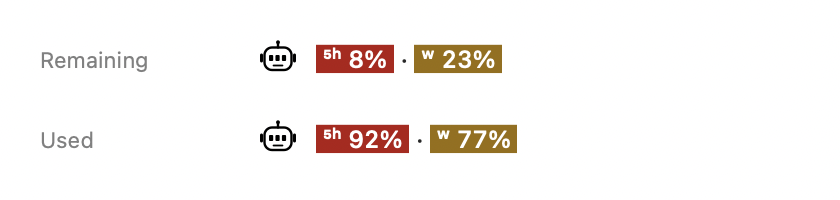
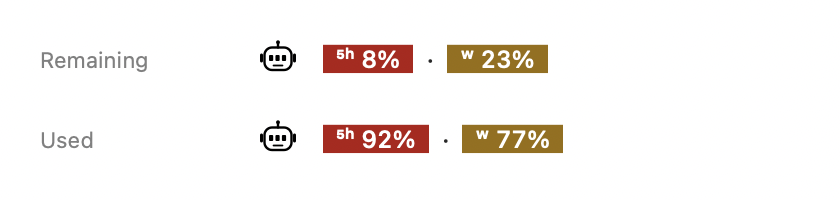
Space tray badges and include ten percent in the red warning range

Changed region(s): [[0.3714, 0.6, 0.681, 0.78], [0.3714, 0.21, 0.65, 0.39]]

diff --git a/Sources/CliProxyQuota/App.swift b/Sources/CliProxyQuota/App.swift
@@ -184,9 +184,9 @@ import QuotaCore
         let yellowRange = (coloredTitle.string as NSString).range(of: "80%")
         let redRange = (coloredTitle.string as NSString).range(of: "95%")
         try check(coloredTitle.attribute(.backgroundColor, at: yellowRange.location, effectiveRange: nil) as? NSColor == MenuBarAppearance.warningBackground,
-            "Tray 10–25 percent remaining must use a yellow badge even in Used mode")
+            "Tray above 10 through 25 percent remaining must use a yellow badge even in Used mode")
         try check(coloredTitle.attribute(.backgroundColor, at: redRange.location, effectiveRange: nil) as? NSColor == MenuBarAppearance.criticalBackground,
-            "Tray below 10 percent remaining must use a red badge independently")
+            "Tray at or below 10 percent remaining must use a red badge independently")
         for token in ["80%", "95%", "⁵ʰ", "ʷ"] {
             let range = (coloredTitle.string as NSString).range(of: token)
             try check(coloredTitle.attribute(.foregroundColor, at: range.location, effectiveRange: nil) as? NSColor == .white,
@@ -198,6 +198,10 @@ import QuotaCore
             let luminance = 0.2126 * linear(c.redComponent) + 0.7152 * linear(c.greenComponent) + 0.0722 * linear(c.blueComponent)
             try check(1.05 / (luminance + 0.05) >= 4.5, "White badge text must have at least 4.5:1 contrast")
         }
+        let boundaryBadge = MenuBarAppearance.title(for: MenuBarReadout(id: "boundary", title: "x", detail: "x", fiveHour: 10, weekly: nil), mode: .remaining, window: .fiveHour)
+        let boundaryRange = (boundaryBadge.string as NSString).range(of: "10%")
+        try check(boundaryBadge.attribute(.backgroundColor, at: boundaryRange.location, effectiveRange: nil) as? NSColor == MenuBarAppearance.criticalBackground,
+            "Exactly ten percent remaining must have a red background")
         let normalTitle = MenuBarAppearance.title(for: MenuBarReadout(id: "normal", title: "x", detail: "x", fiveHour: 80, weekly: nil), mode: .remaining, window: .both)
         try check(normalTitle.attribute(.foregroundColor, at: 4, effectiveRange: nil) as? NSColor == .labelColor,
             "Healthy and unavailable tray readings must retain the standard text color")

diff --git a/Sources/CliProxyQuota/MenuBarAppearance.swift b/Sources/CliProxyQuota/MenuBarAppearance.swift
@@ -17,10 +17,12 @@ enum MenuBarAppearance {
             guard severity != .normal else {
                 text.append(NSAttributedString(string: value, attributes: normal)); return
             }
-            text.append(NSAttributedString(string: " " + value + " ", attributes: [
+            text.append(NSAttributedString(string: " ", attributes: normal))
+            text.append(NSAttributedString(string: "  " + value + "  ", attributes: [
                 .font: font, .foregroundColor: NSColor.white,
                 .backgroundColor: severity == .warning ? warningBackground : criticalBackground
             ]))
+            text.append(NSAttributedString(string: " ", attributes: normal))
         }
         switch window {
         case .fiveHour: append(readout.fiveHour)

diff --git a/Tests/QuotaCoreTests/DisplayPreferencesTests.swift b/Tests/QuotaCoreTests/DisplayPreferencesTests.swift
@@ -84,7 +84,8 @@ final class DisplayPreferencesTests: XCTestCase {
     func testWarningThresholdsAndMissingValues() {
         XCTAssertEqual(TrayQuotaSeverity.forRemaining(0), .critical)
         XCTAssertEqual(TrayQuotaSeverity.forRemaining(9.99), .critical)
-        XCTAssertEqual(TrayQuotaSeverity.forRemaining(10), .warning)
+        XCTAssertEqual(TrayQuotaSeverity.forRemaining(10), .critical)
+        XCTAssertEqual(TrayQuotaSeverity.forRemaining(10.01), .warning)
         XCTAssertEqual(TrayQuotaSeverity.forRemaining(25), .warning)
         XCTAssertEqual(TrayQuotaSeverity.forRemaining(25.01), .normal)
         XCTAssertEqual(TrayQuotaSeverity.forRemaining(nil), .normal)

diff --git a/Sources/QuotaCore/DisplayPreferences.swift b/Sources/QuotaCore/DisplayPreferences.swift
@@ -111,7 +111,7 @@ public enum TrayQuotaSeverity: Equatable, Sendable {
     case normal, warning, critical
     public static func forRemaining(_ value: Double?) -> Self {
         guard let value, value.isFinite else { return .normal }
-        if value < 10 { return .critical }
+        if value <= 10 { return .critical }
         if value <= 25 { return .warning }
         return .normal
     }

diff --git a/README.md b/README.md
@@ -23,7 +23,7 @@ A small, native macOS app for [CLIProxyAPI](https://github.com/router-for-me/CLI
 - **Remaining or Used**: one preference updates percentages and bars in both quota views and the menu bar.
 - **5-hour, Weekly, or Both** in the menu bar. Single limits show `72%`; Both shows `⁵ʰ 72% · ʷ 84%`.
 - **Weekly-aware tray quota**: each account contributes the lower of its 5-hour and weekly remaining percentages to the tray’s 5-hour average. A weekly-exhausted account contributes 0%, even if its 5-hour window is full.
-- **Tray warning badges**: each percentage and its window label use white text on a dark yellow/gold background at 10–25% remaining and a red background below 10%. Colors always reflect remaining capacity, including in Used mode.
+- **Tray warning badges**: each percentage and its window label use white text on a dark yellow/gold background above 10% through 25% remaining and a red background at or below 10%. Colors always reflect remaining capacity, including in Used mode.
 - **Checkbox source menu**: select provider averages or individual accounts. Each selected source gets its own menu bar item; clear all selections for icon-only mode.
 - **Provider-wide usage forecast**: one sentence in All accounts estimates whether the combined allowance lasts until reset. Enable or disable it under General and choose a 30-, 60-, or 120-minute averaging period.
 - **Automatic refresh** every 1, 2, 5, or 10 minutes, plus manual refresh.
